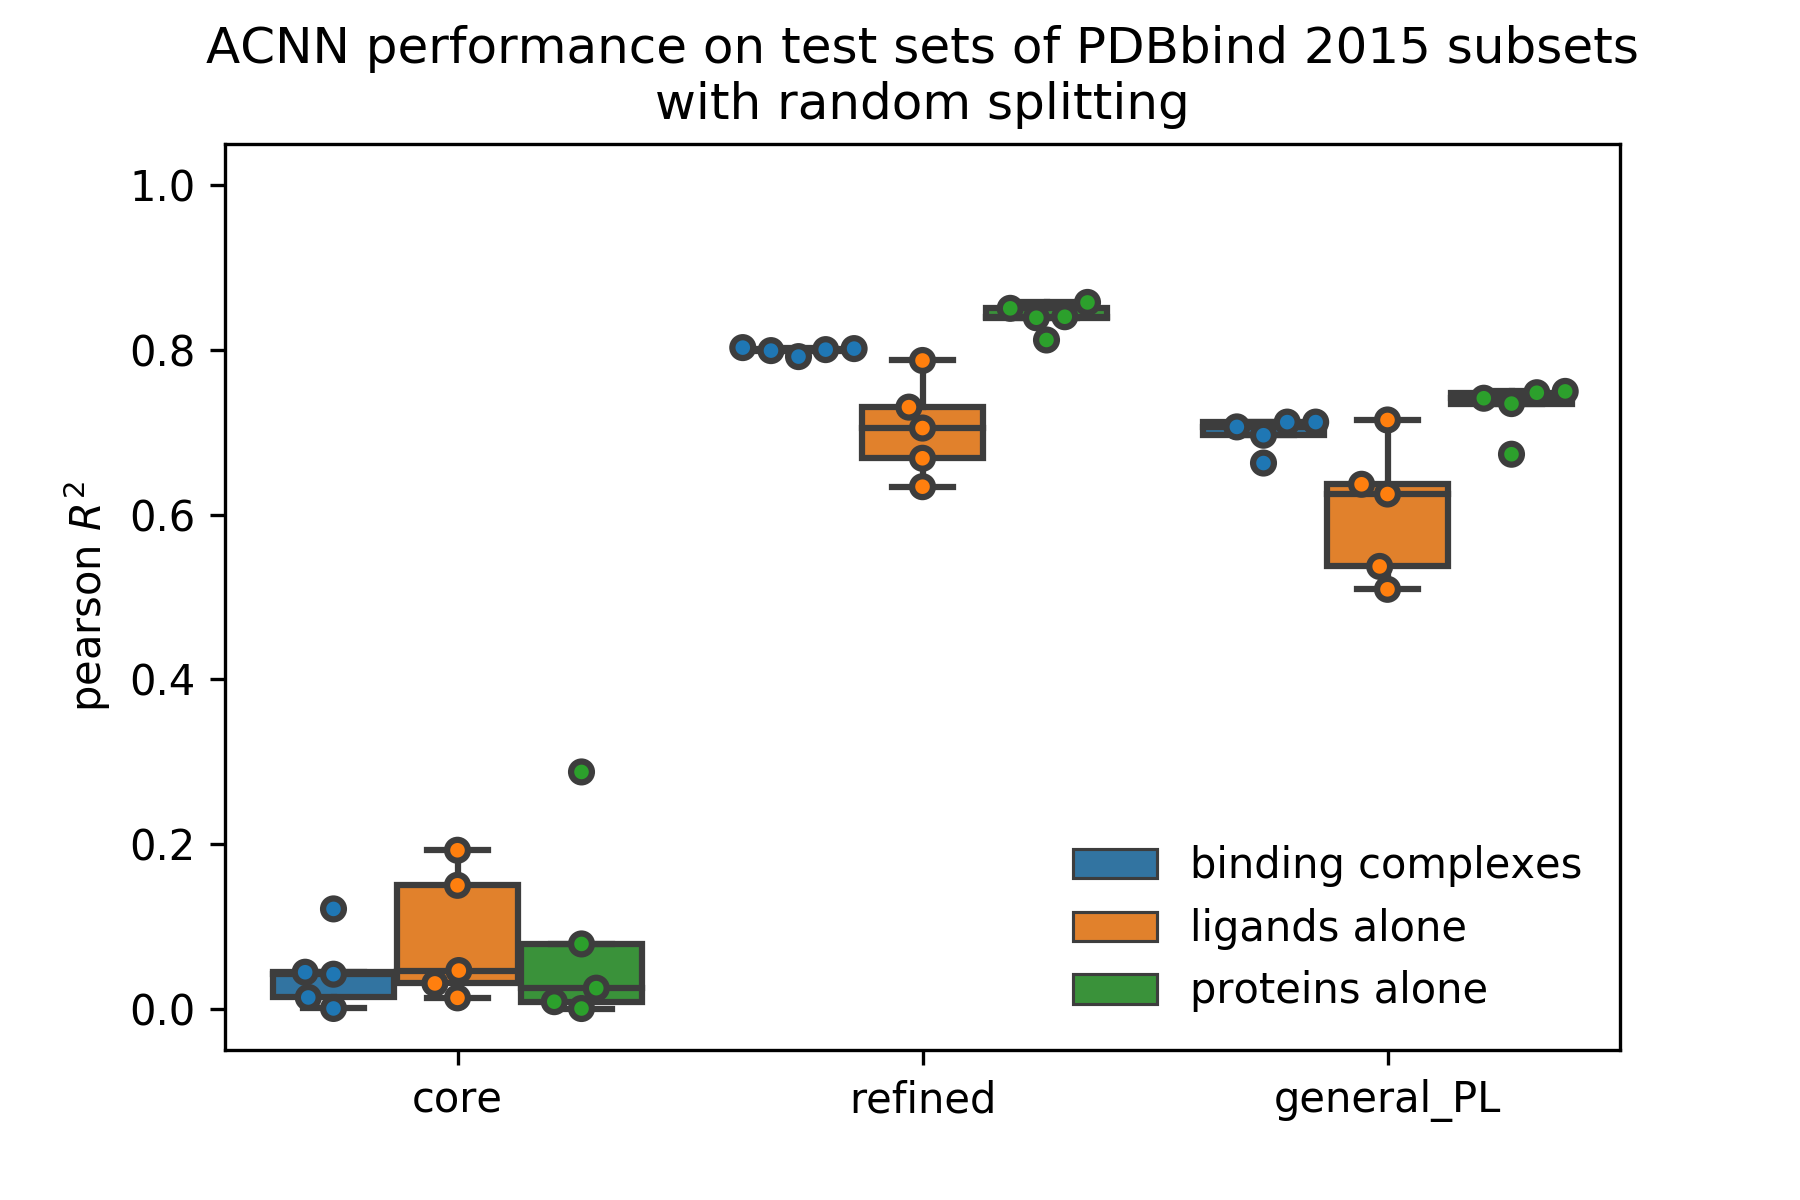
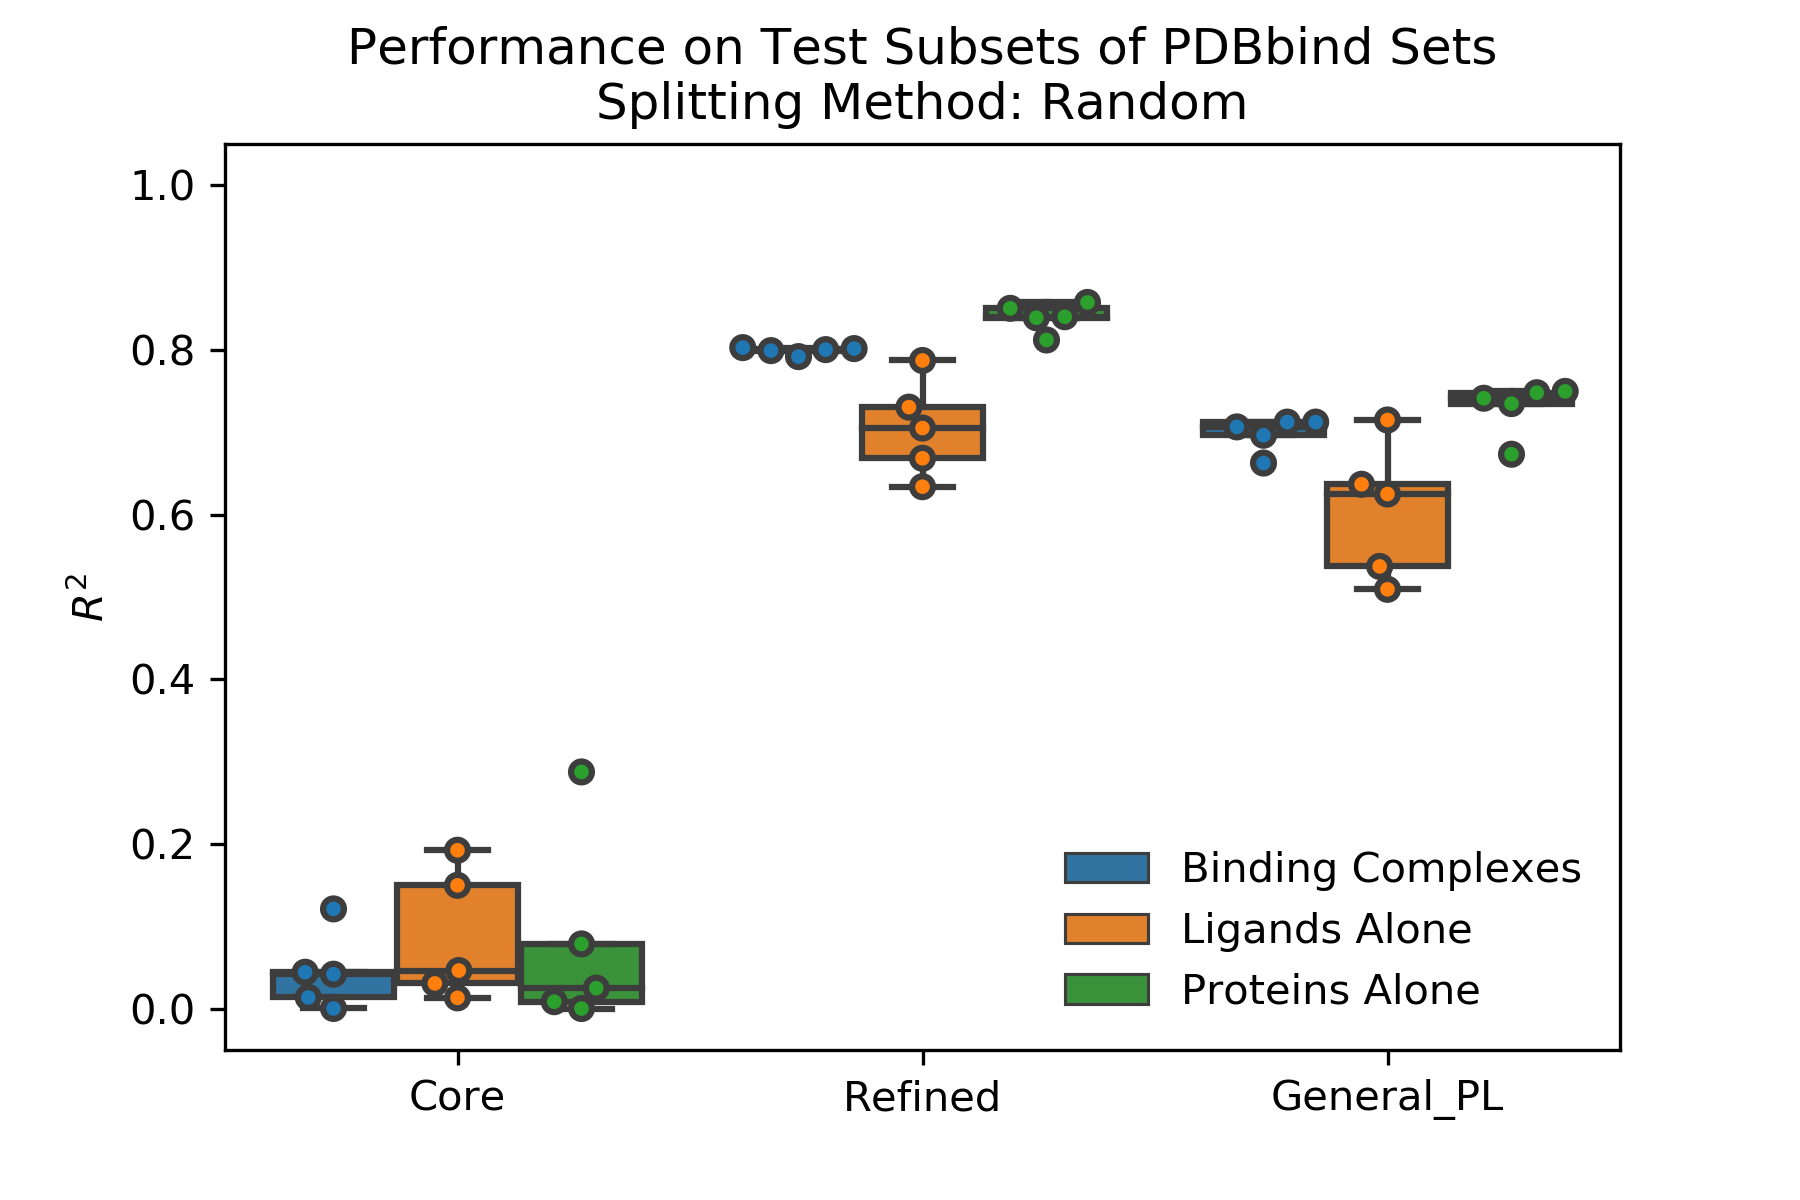
refined title in PDBbind figure and Capitalize First Letter of Each Word

diff --git a/pdbbind/self.figures/box.py b/pdbbind/self.figures/box.py
@@ -21,21 +21,22 @@ df.tail()
 
 #%%
 components = ['binding', 'ligand', 'protein']
-cpn_names = ['binding complexes', 'ligands alone', 'proteins alone']
+cpn_names = ['Binding Complexes', 'Ligands Alone', 'Proteins Alone']
 subsets = ['core', 'refined', 'general_PL']
+subset_names = ['Core', 'Refined', 'General_PL']
 # splits = ['random', 'fingerprint', 'sequence']
 # split_names = ['random splitting', 'fingerprint splitting', 'sequence splitting']
 
 splits = ['random', 'scaffold', 'sequence']
-split_names = ['random splitting', 'scaffold splitting', 'sequence splitting']
+split_names = ['Random', 'Scaffold-based', 'Sequence-based']
 # metrics = ['pearson_r2_score', 'mean_absolute_error']
 # metric_names = ['pearson $R^2$', 'MAE']
 
 # MAE no meaning in here.
 metrics = ['pearson_r2_score']
-metric_names = ['pearson $R^2$']
-# version = 2015
-version = 2018
+metric_names = ['$R^2$']
+version = 2015
+# version = 2018
 sns.palplot(sns.color_palette('Set2'))
 sns.palplot(sns.color_palette('Paired', 9))
 
@@ -105,10 +106,10 @@ for metric, metric_name in zip(metrics, metric_names):
             loc = 'lower right'
         l = ax.legend(handles[0:3], cpn_names, frameon=False, loc=loc)
         ax.set_xlabel('')
+        ax.set_xticklabels(subset_names)
         ax.set_ylabel(metric_name)
-        ax.set_title(
-            f'ACNN performance on test sets of PDBbind {version} subsets\nwith {split_name}'
-        )
+        ax.set_title(f'Performance on Test Subsets of PDBbind Sets\n'
+                     f'Splitting Method: {split_name}')
         ax.set_ylim([-0.05, 1.05])
         fig.savefig(root / f"{version}.{split}.{metric}.png", dpi=300)
 
@@ -162,10 +163,10 @@ for metric, metric_name in zip(metrics, metric_names):
             loc = 'lower right'
         l = ax.legend(handles[0:3], split_names, frameon=False, loc=loc)
         ax.set_xlabel('')
+        ax.set_xticklabels(subset_names)
         ax.set_ylabel(metric_name)
-        ax.set_title(
-            f'ACNN performance on test sets of PDBbind {version} subsets\ncontaining {component_name} '
-        )
+        ax.set_title(f'Performance on Test Subsets of PDBbind Sets\n'
+                     f'Dataset: PDBbind ({component_name})')
         ax.set_ylim([-0.05, 1.05])
         fig.savefig(root / f"{version}.{component}.{metric}.png", dpi=300)
 

diff --git a/pdbbind/pred_core.figures/box.py b/pdbbind/pred_core.figures/box.py
@@ -20,21 +20,22 @@ df.tail()
 
 #%%
 components = ['binding', 'ligand', 'protein']
-cpn_names = ['binding complexes', 'ligands alone', 'proteins alone']
+cpn_names = ['Binding Complexes', 'Ligands Alone', 'Proteins Alone']
 subsets = ['refined', 'general_PL']
+subset_names = ['Refined', 'General_PL']
 
 # splits = ['random', 'fingerprint', 'sequence']
 # split_names = ['random splitting', 'fingerprint splitting', 'sequence splitting']
 
 splits = ['random', 'scaffold', 'sequence']
-split_names = ['random splitting', 'scaffold splitting', 'sequence splitting']
+split_names = ['Random', 'Scaffold-based', 'Sequence-based']
 
 # metrics = ['pearson_r2_score', 'mean_absolute_error']
 # metric_names = ['pearson $R^2$', 'MAE']
 
 # MAE no meaning in here.
 metrics = ['pearson_r2_score']
-metric_names = ['pearson $R^2$']
+metric_names = ['$R^2$']
 version = 2015
 # version = 2018
 #%%
@@ -89,10 +90,12 @@ for metric, metric_name in zip(metrics, metric_names):
             loc = 'lower right'
         l = ax.legend(handles[0:3], cpn_names, frameon=False, loc=loc)
         ax.set_xlabel('')
+        ax.set_xticklabels(subset_names)
         ax.set_ylabel(metric_name)
         ax.set_title(
-            f'ACNN performance on PDBbind {version} core subset\nwith {split_name}'
-        )
+            # f'ACNN performance on PDBbind {version} core subset\nwith {split_name}'
+            f'Performance on PDBbind Core Set\n'
+            f'Training Set: Refined Set or General_PL Set')
         ax.set_yticks(np.linspace(0, 1, 11))
         ax.set_ylim([0.5, 0.9])
         fig.savefig(root / f"{version}.{split}.{metric}.png", dpi=300)
